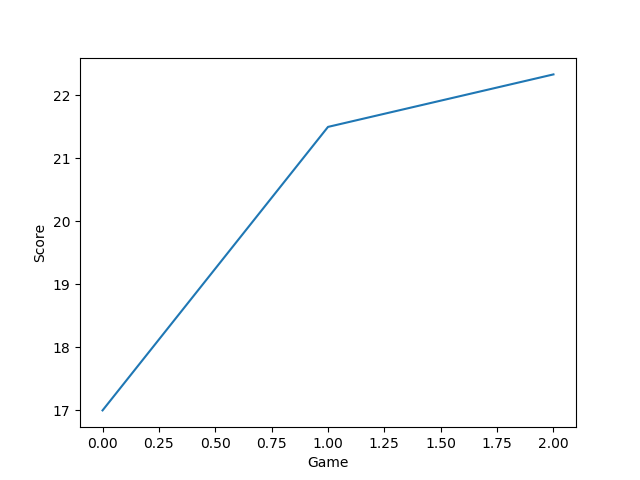
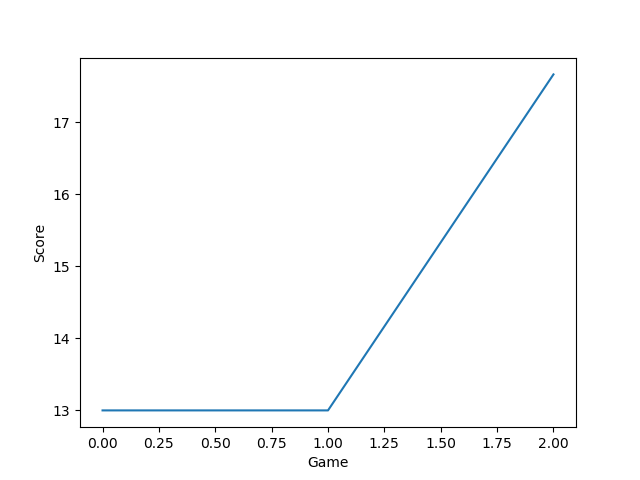
Rete convoluzionale funziona

diff --git a/actor_critic_keras.py b/actor_critic_keras.py
@@ -26,10 +26,9 @@ class Agent(object):
         delta = Input(shape=[1])
         input_tail_network = input
         if (not self.is_ram):
-            head = Conv2D(64, kernel_size=3, activation='relu')(input)
-            conv1 = Conv2D(32, kernel_size=3, activation='relu')(head)
-            conv2 = Conv2D(16, kernel_size=3, activation='relu')(conv1)
-            input_tail_network = conv2
+            head = Conv2D(32, kernel_size=3, activation='relu')(input)
+            conv1 = Conv2D(16, kernel_size=3, activation='relu')(head)
+            input_tail_network = Flatten()(conv1)
         dense1 = Dense(self.fc1_dims, activation='relu')(input_tail_network)
         dense2 = Dense(self.fc2_dims, activation='relu')(dense1)
         probs = Dense(self.n_actions, activation='softmax')(dense2)
@@ -42,13 +41,10 @@ class Agent(object):
             return K.sum(-log_lik*delta)
 
         actor = Model(input=[input, delta], output=[probs])
-
         actor.compile(optimizer=Adam(lr=self.alpha), loss=custom_loss)
-
         critic = Model(input=[input], output=[values])
-
         critic.compile(optimizer=Adam(lr=self.beta), loss='mean_squared_error')
-
+        critic.summary()
         policy = Model(input=[input], output=[probs])
 
         return actor, critic, policy
@@ -56,11 +52,7 @@ class Agent(object):
     def choose_action(self, observation):
         state = observation[np.newaxis, :]
         probabilities = self.policy.predict(state)[0]
-        if (not self.is_ram):
-            prob = probabilities[2][1]
-        else:
-            prob = probabilities
-        action = np.random.choice(self.action_space, p=prob)
+        action = np.random.choice(self.action_space, p=probabilities)
 
         return action
 
@@ -70,7 +62,6 @@ class Agent(object):
         critic_value_ = self.critic.predict(state_)
         critic_value = self.critic.predict(state)
 
-        print(critic_value.shape)
         target = reward + self.gamma*critic_value_*(1-int(done))
         delta =  target - critic_value
 

diff --git a/main_keras_ac.py b/main_keras_ac.py
@@ -4,17 +4,17 @@ from utils import plotLearning
 from gym import wrappers
 import numpy as np
 
-env_name = 'CartPole-v0'
+env_name = 'SpaceInvaders-v0'
 
 if __name__ == '__main__':
     env = gym.make(env_name)
     state_dimension = env.observation_space.shape
     n_actions = env.action_space.n
 
-    agent = Agent(n_actions=n_actions, input_dims = state_dimension, alpha=0.00001, beta=0.00005, gamma = 0.96, is_ram=True)
+    agent = Agent(n_actions=n_actions, input_dims = state_dimension, alpha=0.00001, beta=0.00005, gamma = 0.99, is_ram=False)
 
     score_history = []
-    num_episodes = 3
+    num_episodes = 100
 
     for i in range(num_episodes):
         done = False
